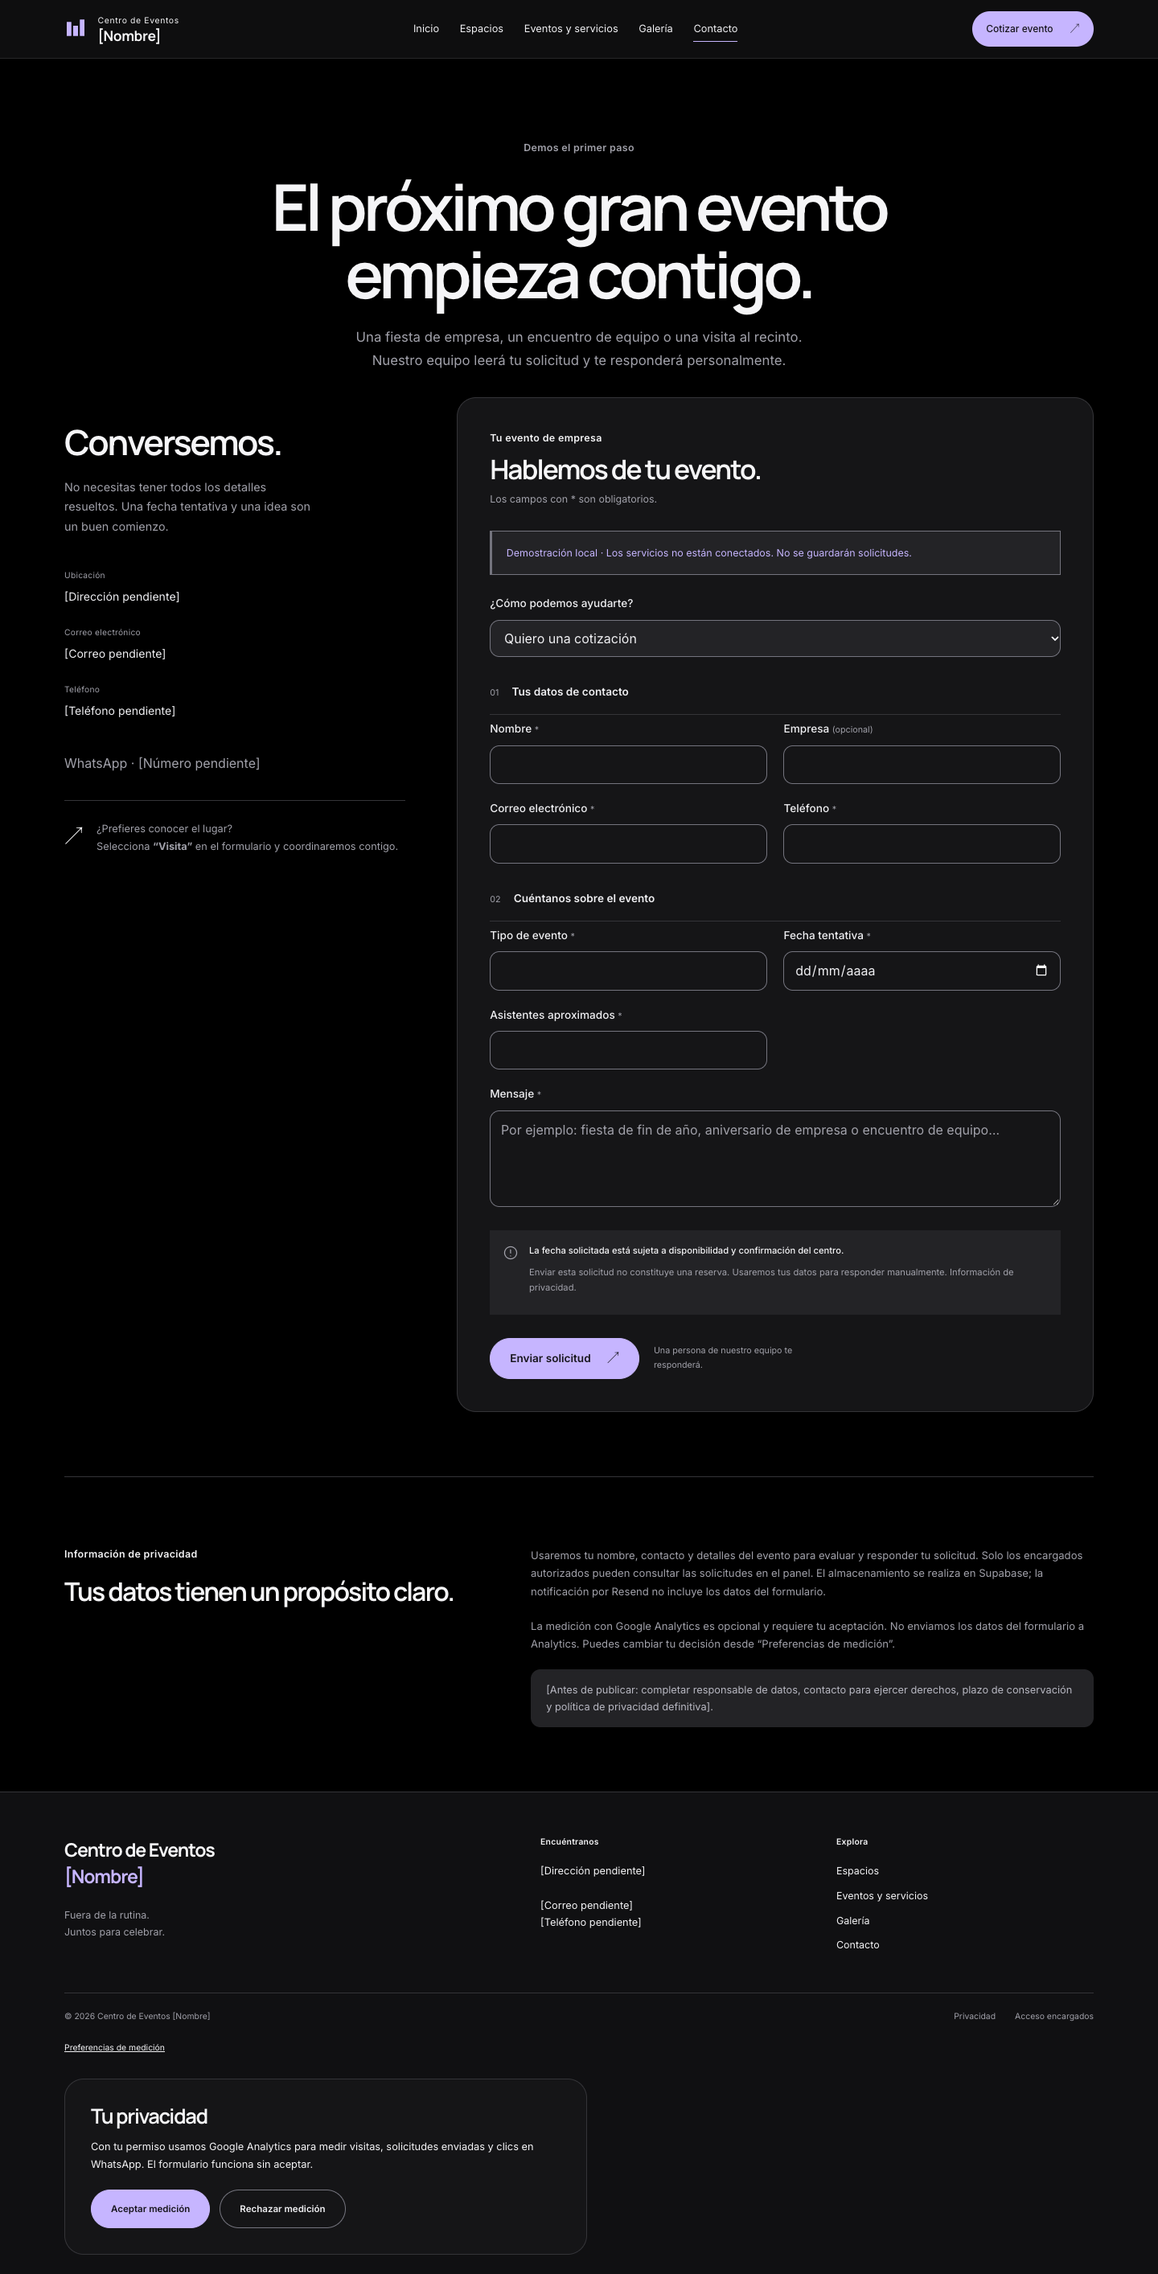
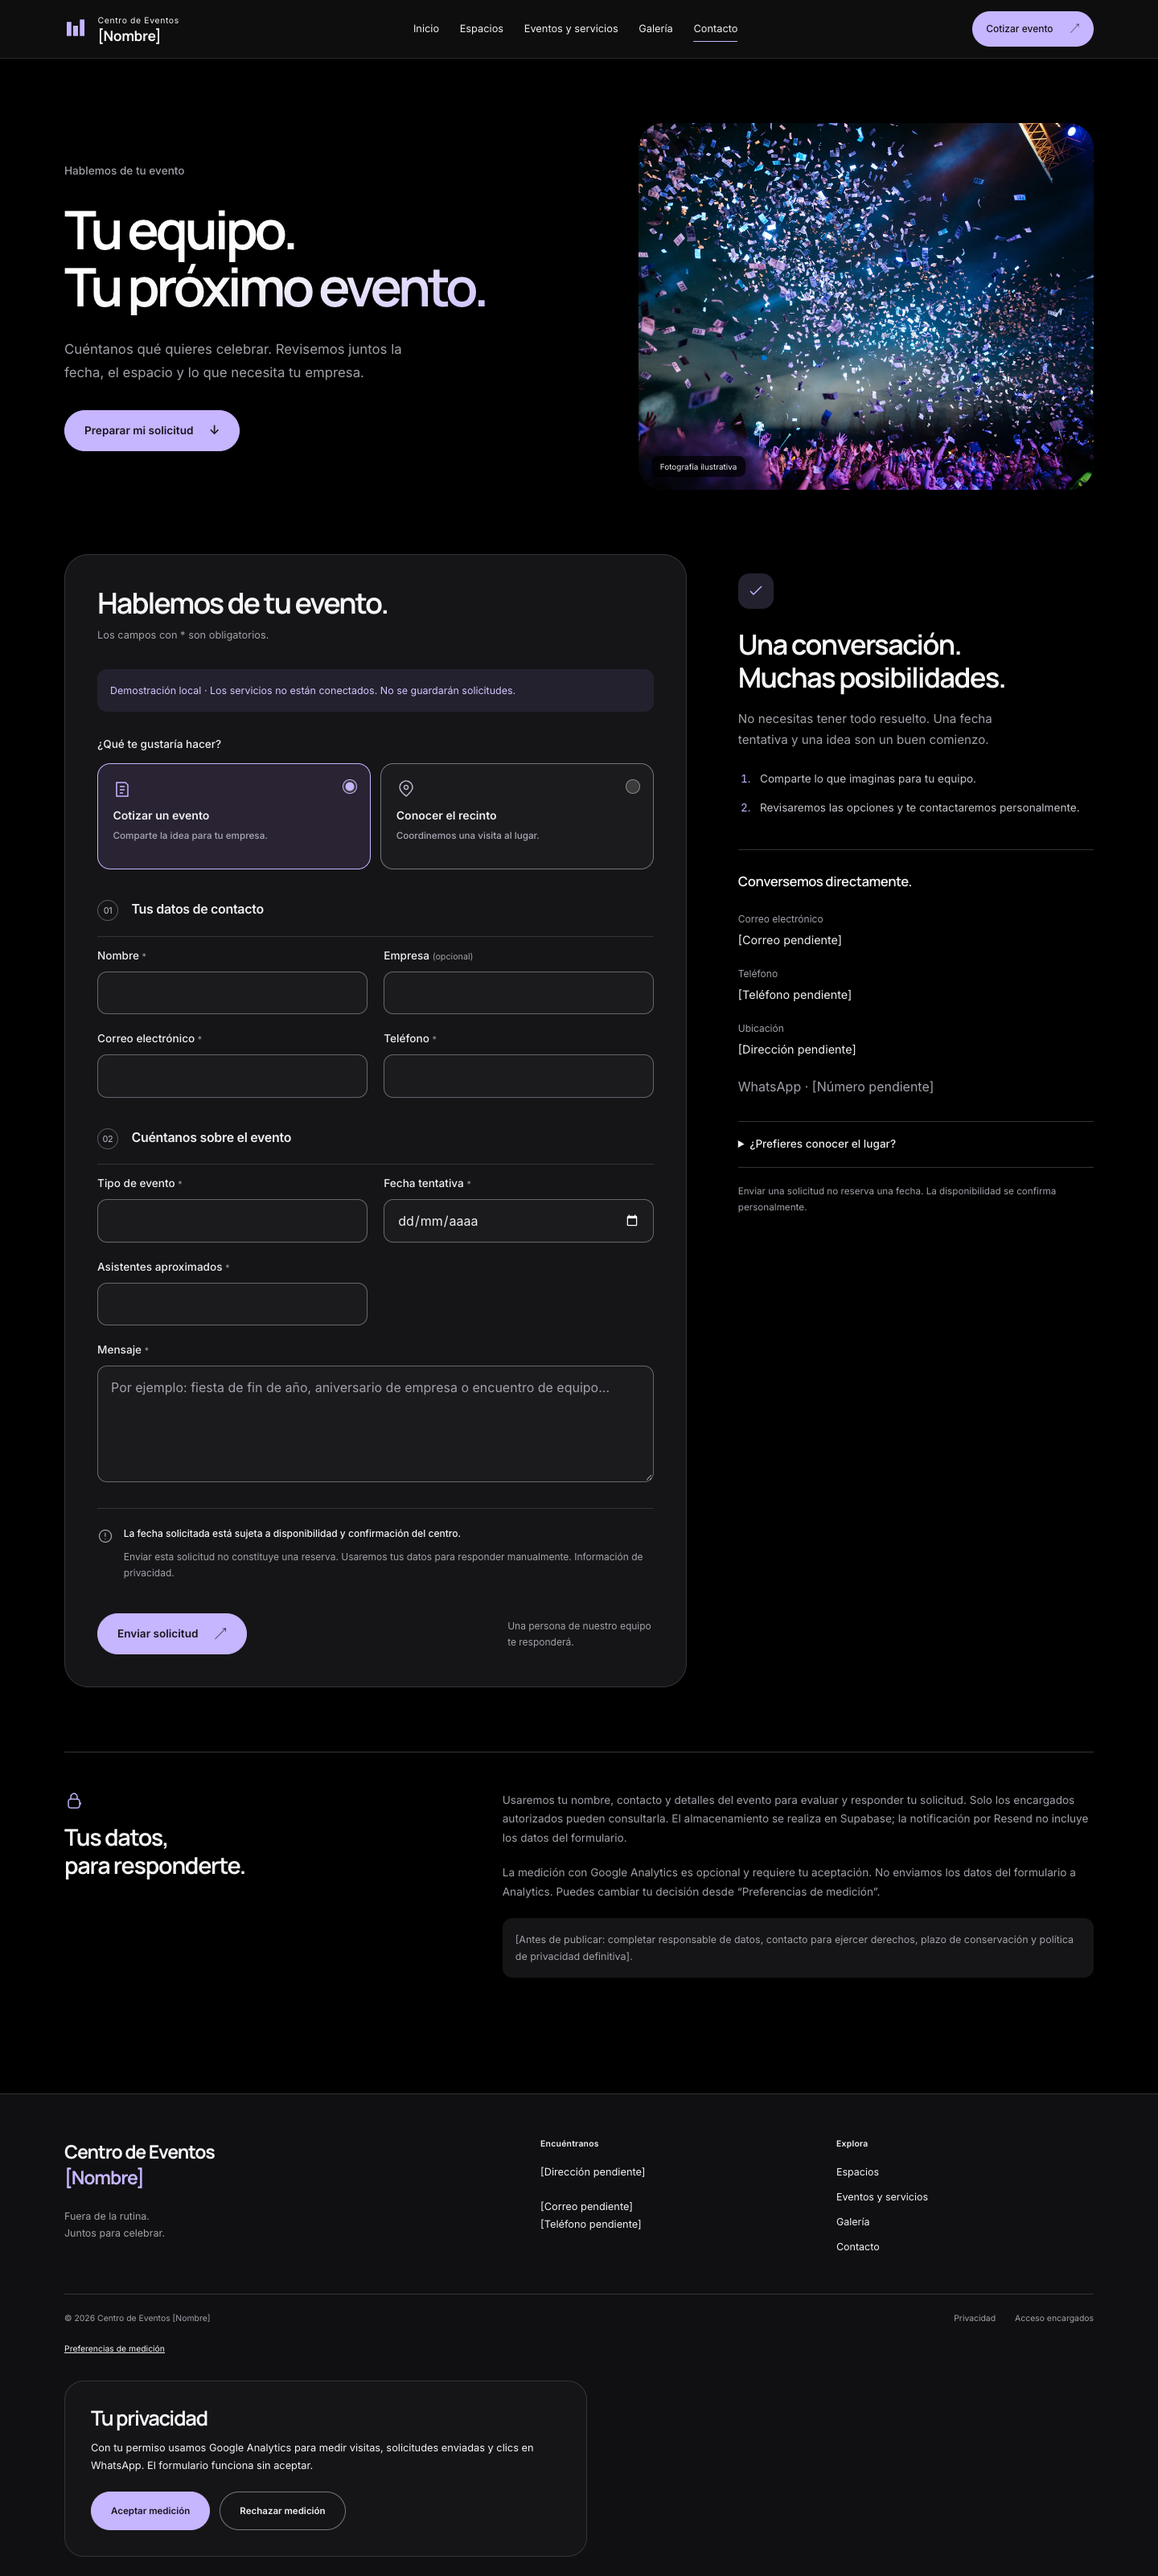
fix: completar rediseño de contacto y elección de solicitud

diff --git a/src/styles/contact.css b/src/styles/contact.css
@@ -1,0 +1,90 @@
+/* Contact has its own composition; shared form and data contracts remain intact. */
+.contact-page { padding-bottom: 1rem; }
+.contact-intro { display: grid; grid-template-columns: 1.15fr 1fr; gap: 4rem; align-items: center; padding-block: 5rem; }
+.contact-kicker { font-size: .85rem; color: var(--muted); font-weight: 500; margin-bottom: 1.5rem; }
+.contact-intro h1 { font-size: clamp(3rem, 4.6vw, 4.6rem); font-weight: 650; letter-spacing: -.065em; line-height: 1.08; margin-bottom: 1.8rem; }
+.contact-intro h1 span { display: block; }
+.contact-intro h1 { color: var(--color-ink); background: linear-gradient(160deg,#fff 25%,#f5f5f7 50%,#c6b5ff 95%); background-clip: text; -webkit-text-fill-color: transparent; }
+.contact-intro-copy > p:not(.contact-kicker) { font-size: 1.05rem; color: var(--muted); max-width: 42ch; margin-bottom: 2rem; }
+.contact-intro .button { gap: 1.2rem; }
+.contact-visual { min-width: 0; }
+.contact-visual .photo-crop { aspect-ratio: 1.24; border-radius: 32px; }
+.contact-visual img { object-position: 68% center; }
+.contact-visual .photo-flag { left: 1rem; bottom: 1rem; font-size: .62rem; background: #000b; color: #eeeef4; }
+.contact-request-grid { display: grid; grid-template-columns: minmax(0,1.75fr) minmax(0,1fr); gap: 4rem; align-items: start; padding-bottom: 5rem; }
+.contact-form-area { min-width: 0; scroll-margin-top: 1rem; }
+.contact-page .request-form { padding: 2.5rem; border-radius: 30px; background: #151517; border-color: #343438; }
+.contact-page .form-heading { margin-bottom: 2rem; }
+.contact-page .form-heading h2 { font-size: clamp(1.8rem,2.5vw,2.3rem); letter-spacing: -.055em; }
+.contact-page .form-heading .eyebrow { display: none; }
+.contact-page .form-heading .small { font-size: .8rem; }
+.contact-page .demo-notice { border: 0; border-radius: 12px; padding: 1rem; color: #d4c7ff; background: #24212f; font-size: .78rem; }
+.contact-page .request-form > fieldset:not(.request-intent) { margin-top: 2.25rem; }
+.contact-page .request-form > fieldset:not(.request-intent) > legend { font-size: 1rem; letter-spacing: -.02em; padding-bottom: 1.15rem; margin-bottom: .75rem; }
+.contact-page .request-form legend > span { display: inline-grid; place-items: center; border: 1px solid #595861; border-radius: 50%; width: 26px; height: 26px; font-size: .68rem; color: #c3c1cf; }
+.contact-page .request-form input:not([type=radio]),.contact-page .request-form textarea { background: #1b1b1e; border-color: #666670; min-height: 52px; padding: .85rem 1rem; }
+.contact-page .request-form input:focus,.contact-page .request-form textarea:focus { border-color: var(--color-accent); }
+.contact-page .request-form input[aria-invalid=true],.contact-page .request-form textarea[aria-invalid=true] { background: var(--error-bg); border-color: var(--error); }
+.contact-page .request-form textarea { min-height: 145px; }
+.contact-page .request-disclaimer { background: transparent; border-top: 1px solid var(--border); padding: 1.3rem 0 0; margin: 2rem 0; font-size: .75rem; }
+.contact-page .form-submit { justify-content: space-between; gap: 1rem; }
+.contact-page .form-submit > span { font-size: .75rem; max-width: 24ch; }
+.contact-page .form-feedback { border-radius: 12px; }
+.contact-companion { position: sticky; top: 6.5rem; padding-top: 1.5rem; }
+.contact-symbol { display: grid; place-items: center; width: 44px; height: 44px; background: #24212f; color: var(--color-accent); border-radius: 14px; margin-bottom: 1.5rem; }
+.contact-next h2 { font-size: clamp(1.7rem,2.4vw,2.3rem); line-height: 1.17; letter-spacing: -.05em; margin-bottom: 1.2rem; }
+.contact-next > p { max-width: 34ch; color: var(--muted); font-size: .95rem; }
+.contact-next ol { list-style: decimal; margin: 1.5rem 0 2.5rem; padding-left: 1.2rem; color: #c5c5cd; font-size: .85rem; }
+.contact-next li { padding-left: .5rem; margin-bottom: .8rem; }
+.contact-next li::marker { color: var(--color-accent); }
+.contact-channels { border-top: 1px solid var(--border); padding-top: 1.7rem; }
+.contact-channels h2 { font: 600 1.05rem var(--font-display); letter-spacing: -.025em; margin-bottom: 1.6rem; }
+.contact-channels dl { display: grid; gap: 1.2rem; margin: 0 0 1.3rem; }
+.contact-channels dt { font-size: .75rem; margin-bottom: .25rem; }
+.contact-channels dd { font-size: .9rem; }
+.contact-channels > .muted { font-size: .85rem; }
+.contact-channels .button { font-size: .8rem; width: 100%; }
+.contact-question { margin-top: 1.8rem; border-block: 1px solid var(--border); }
+.contact-question summary { padding: 1rem 1.5rem 1rem 0; font-size: .85rem; font-weight: 500; cursor: pointer; min-height: 48px; }
+.contact-question p { font-size: .85rem; color: var(--muted); padding-bottom: 1.2rem; }
+.contact-reservation-note { font-size: .73rem; color: var(--muted); margin-top: 1.3rem; }
+.contact-privacy { display: grid; grid-template-columns: .85fr 1.3fr; gap: 4rem; padding-block: 3rem; border-top: 1px solid var(--border); scroll-margin-top: 1rem; }
+.contact-privacy > div:first-child svg { color: var(--color-accent); margin-bottom: 1rem; }
+.contact-privacy h2 { font-size: 1.8rem; letter-spacing: -.045em; line-height: 1.2; max-width: 18ch; }
+.contact-privacy > div:last-child { font-size: .85rem; color: var(--muted); }
+.contact-policy-pending { padding: 1rem; background: var(--surface); border-radius: 12px; font-size: .78rem; }
+@media (max-width: 1000px) {
+ .contact-intro { gap: 2rem; padding-block: 3.5rem; }
+ .contact-intro h1 { font-size: 3.2rem; }
+ .contact-request-grid { grid-template-columns: minmax(0,1.7fr) minmax(0,1fr); gap: 2rem; }
+ .contact-page .request-form { padding: 1.8rem; }
+ .contact-next h2 { font-size: 1.8rem; }
+}
+@media (max-width: 900px) {
+ .contact-intro { grid-template-columns: 1fr; padding-block: 3rem 2.5rem; gap: 2rem; text-align: center; }
+ .contact-intro h1 { font-size: clamp(2.7rem,7vw,3.6rem); }
+ .contact-intro-copy > p:not(.contact-kicker) { margin-inline: auto; }
+ .contact-visual .photo-crop { aspect-ratio: 1.8; border-radius: 24px; }
+ .contact-request-grid { grid-template-columns: 1fr; gap: 3rem; padding-bottom: 3rem; }
+ .contact-companion { position: static; display: grid; grid-template-columns: 1fr 1fr; gap: 2rem; padding-top: 0; }
+ .contact-next ol { margin-bottom: 0; }
+ .contact-channels { border-top: 0; padding-top: 0; }
+ .contact-question,.contact-reservation-note { grid-column: 1/-1; margin-top: 0; }
+ .contact-privacy { grid-template-columns: 1fr; gap: 1.5rem; }
+}
+@media (max-width: 480px) {
+ .contact-intro { text-align: left; padding-block: 2.7rem 2rem; gap: 2rem; }
+ .contact-kicker { margin-bottom: 1rem; }
+ .contact-intro h1 { font-size: 2.8rem; margin-bottom: 1.4rem; }
+ .contact-intro-copy > p:not(.contact-kicker) { font-size: .95rem; margin-bottom: 1.5rem; }
+ .contact-visual .photo-crop { aspect-ratio: 1.45; }
+ .contact-page .request-form { padding: 1.4rem 1.15rem; border-radius: 24px; }
+ .contact-page .form-heading h2 { font-size: 1.8rem; }
+ .contact-page .form-grid { grid-template-columns: 1fr; }
+ .contact-page .form-submit { align-items: stretch; }
+ .contact-page .form-submit > span { max-width: none; }
+ .contact-companion { grid-template-columns: 1fr; gap: 2rem; }
+ .contact-next h2 { font-size: 2rem; }
+ .contact-channels { padding-top: 1.7rem; border-top: 1px solid var(--border); }
+ .contact-privacy { padding-block: 2rem; }
+}

diff --git a/src/components/ui/RequestFormView.tsx b/src/components/ui/RequestFormView.tsx
@@ -1,3 +1,4 @@
+import '../../styles/request-intent.css';
 import type { SubmitEvent } from 'react';
 import type { FieldErrors } from '../../../shared/request';
 export interface RequestFormViewProps {
@@ -19,7 +20,7 @@ export default function RequestFormView({ status, errors, message, demo, onSubmi
   return <form onSubmit={onSubmit} noValidate aria-describedby="request-note" aria-busy={status === 'sending'} className="request-form surface">
     <div className="form-heading"><p className="eyebrow">Tu evento de empresa</p><h2>Hablemos de tu evento.</h2><p className="muted small">Los campos con * son obligatorios.</p></div>
     {demo && <p className="notice demo-notice">Demostración local · Los servicios no están conectados. No se guardarán solicitudes.</p>}
-    <div className="form-field request-type-field"><label htmlFor="request_type">¿Cómo podemos ayudarte?</label><select id="request_type" name="request_type" defaultValue="cotizacion" disabled={status === 'sending'}><option value="cotizacion">Quiero una cotización</option><option value="visita">Quiero coordinar una visita</option></select></div>
+    <fieldset className="request-intent" disabled={status === 'sending'}><legend>¿Qué te gustaría hacer?</legend><div className="request-intent-options"><label className="request-choice"><input type="radio" name="request_type" value="cotizacion" defaultChecked /><svg viewBox="0 0 24 24" aria-hidden="true"><path d="M8 4h8l3 3v14H5V4h3m1 5h6m-6 4h6m-6 4h4" /></svg><strong>Cotizar un evento</strong><small>Comparte la idea para tu empresa.</small></label><label className="request-choice"><input type="radio" name="request_type" value="visita" /><svg viewBox="0 0 24 24" aria-hidden="true"><path d="M20 10c0 5-8 11-8 11S4 15 4 10a8 8 0 1 1 16 0Z" /><circle cx="12" cy="10" r="2.5" /></svg><strong>Conocer el recinto</strong><small>Coordinemos una visita al lugar.</small></label></div></fieldset>
     <fieldset><legend><span>01</span> Tus datos de contacto</legend><div className="form-grid">{contactFields.map(field)}</div></fieldset>
     <fieldset><legend><span>02</span> Cuéntanos sobre el evento</legend><div className="form-grid">{eventFields.map(field)}<div className="form-field full"><label htmlFor="message">Mensaje <span className="optional">*</span></label><textarea id="message" name="message" rows={4} required minLength={10} maxLength={3000} placeholder="Por ejemplo: fiesta de fin de año, aniversario de empresa o encuentro de equipo…" aria-invalid={!!errors.message} aria-describedby={errors.message ? 'message-error' : undefined} disabled={status === 'sending'} />{errors.message && <p id="message-error" className="field-error">{errors.message}</p>}</div></div></fieldset>
     <div className="honeypot" aria-hidden="true"><label htmlFor="website">Dejar vacío</label><input id="website" name="website" tabIndex={-1} autoComplete="off" /></div>

diff --git a/src/styles/request-intent.css b/src/styles/request-intent.css
@@ -1,0 +1,19 @@
+.request-form .request-intent { margin: 1.8rem 0 0; }
+.request-form .request-intent legend { border: 0; padding-bottom: .75rem; margin-bottom: 0; font-size: .85rem; font-weight: 500; }
+.request-intent-options { display: grid; grid-template-columns: repeat(2,minmax(0,1fr)); gap: .8rem; }
+.request-choice { position: relative; display: flex; flex-direction: column; align-items: flex-start; gap: .5rem; min-width: 0; min-height: 132px; padding: 1.15rem; border: 1px solid var(--field-border); border-radius: 16px; background: #1b1b1e; cursor: pointer; margin: 0; transition: border-color 180ms,background 180ms; }
+.request-choice > svg { width: 24px; height: 24px; color: #bab7ca; margin-bottom: .2rem; }
+.request-choice strong { font-size: .88rem; line-height: 1.4; font-weight: 600; }
+.request-choice small { color: #aaa8b5; font-size: .73rem; line-height: 1.5; }
+.request-choice input[type=radio] { position: absolute; top: 1.15rem; right: 1rem; width: 18px; min-height: 18px; height: 18px; padding: 0; margin: 0; accent-color: var(--color-accent); cursor: pointer; }
+.request-choice:has(input:checked) { background: #292333; border-color: var(--color-accent); }
+.request-choice:has(input:checked) > svg { color: var(--color-accent); }
+.request-choice:has(input:focus-visible) { outline: 3px solid var(--focus); outline-offset: 4px; }
+.request-choice:has(input:disabled) { cursor: wait; opacity: .55; }
+@media (max-width: 480px) {
+ .request-intent-options { gap: .6rem; }
+ .request-choice { padding: 1rem .8rem; min-height: 155px; }
+ .request-choice input[type=radio] { top: 1rem; right: .75rem; }
+ .request-choice strong { font-size: .8rem; }
+ .request-choice small { font-size: .7rem; }
+}

diff --git a/docs/diseno/inmersivo/contacto.md b/docs/diseno/inmersivo/contacto.md
@@ -1,0 +1,26 @@
+# Contacto: composición completa y verificación
+
+1 de noviembre de 2026. El usuario señaló que contacto conservaba la composición anterior. La actualización previa había aplicado tokens y tipografía compartidos, sin rediseñar específicamente esta vista.
+
+## Dirección y cambios
+
+Se conserva el sistema vigente (negro, grafito, plata, violeta; Manrope e Inter). La entrada combina título a la izquierda y fotografía ilustrativa a la derecha; en móvil se apilan. La fotografía mantiene un encuadre estable. El formulario pasa a ser el bloque principal, con acompañamiento de próximos pasos y canales de contacto a la derecha en escritorio. En tablet y móvil, el formulario ocupa todo el ancho y aparece antes que la información secundaria.
+
+La propuesta se revisó antes de implementarla: repetir una cabecera centrada y el formulario anterior no atendía la observación. Se eligió una composición propia con entrada fotográfica y jerarquía de solicitud. No se trasladan escenas fijadas al formulario, para mantener accesibles sus campos durante el desplazamiento.
+
+La elección entre cotización y visita se presenta con dos controles radio nativos, agrupados con `fieldset` y `legend`. Se conservan `name="request_type"`, los valores `cotizacion` / `visita` y la selección predeterminada. Se mantienen los campos, nombres, validación, errores, estados, honeypot, UUID e integración existentes. El controlador y backend no se modifican.
+
+Estilos de página aislados en `src/styles/contact.css`. Estilos de la elección nativa en `src/styles/request-intent.css`; la muestra de estados reutiliza el mismo componente actualizado.
+
+## Verificado
+
+- `npm run verify` para GitHub Pages: 37 archivos sin errores, 24 pruebas aprobadas y compilación correcta.
+- Playwright sobre la compilación con `/centro-eventos/contacto/`: 1440, 768, 375 y 320 px sin desbordamiento horizontal.
+- En 768 px, el formulario ocupa una columna completa; en 1440 px, el formulario precede a la información complementaria.
+- Fotografía cargada y revisada en escritorio y móvil. Capturas completas y captura específica del formulario.
+- Selección por click y por flecha de teclado: `FormData` conserva `request_type=visita`. Reiniciar restaura `cotizacion`.
+- Formulario vacío: siete errores, foco en nombre. Datos válidos ficticios: mensaje explícito de demostración; sin guardado ni envío externo.
+- Anclas a formulario y privacidad; cabecera no tapa el inicio del formulario. Pregunta de visita expandible.
+- Movimiento reducido: sin animaciones en la fotografía o en el formulario. Sin errores de consola durante la revisión.
+
+Capturas actualizadas: `contacto-desktop.png`, `contacto-tablet.png`, `contacto-mobile.png` y `contacto-formulario-mobile.png` en este directorio. Nombre, contactos, fotos reales y política definitiva continúan pendientes; se conservan los rótulos correspondientes.

diff --git a/README.md b/README.md
@@ -38,7 +38,7 @@ Guía para el siguiente diseñador: [docs/diseno-handoff.md](docs/diseno-handoff
 
 La dirección actual toma como referencia el ritmo visual y el desplazamiento de la página de MacBook Pro compartida por el usuario. Interfaz negra y grafito, acentos violeta y plata, Manrope para títulos y escenas fotográficas que responden al scroll. La portada incluye expansión de imagen, lectura progresiva y tres ambientes con controles; las páginas interiores, formulario y panel comparten el nuevo sistema visual. El scroll sigue siendo nativo. Sin JavaScript, con movimiento reducido o en pantallas de poca altura, todos los capítulos se presentan en orden y sin escenas fijadas.
 
-Ver [dirección, recursos y verificación](docs/diseno/inmersivo/direccion.md). Las decisiones de diseño anteriores quedan como historial. No se cambian dependencias, servicios ni reglas de datos.
+Ver [dirección, recursos y verificación](docs/diseno/inmersivo/direccion.md) y la [vista de contacto rediseñada y verificada](docs/diseno/inmersivo/contacto.md). Las decisiones de diseño anteriores quedan como historial. No se cambian dependencias, servicios ni reglas de datos.
 
 ## Diseño para eventos de empresas (histórico)
 
